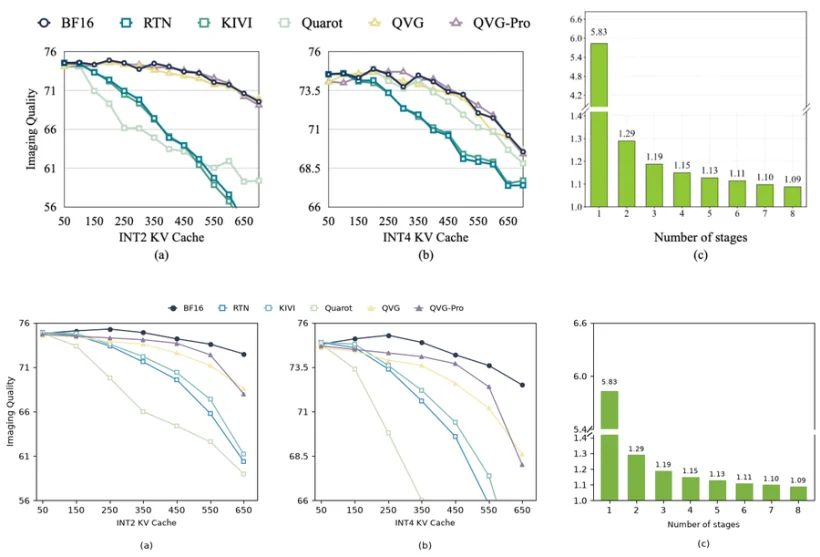
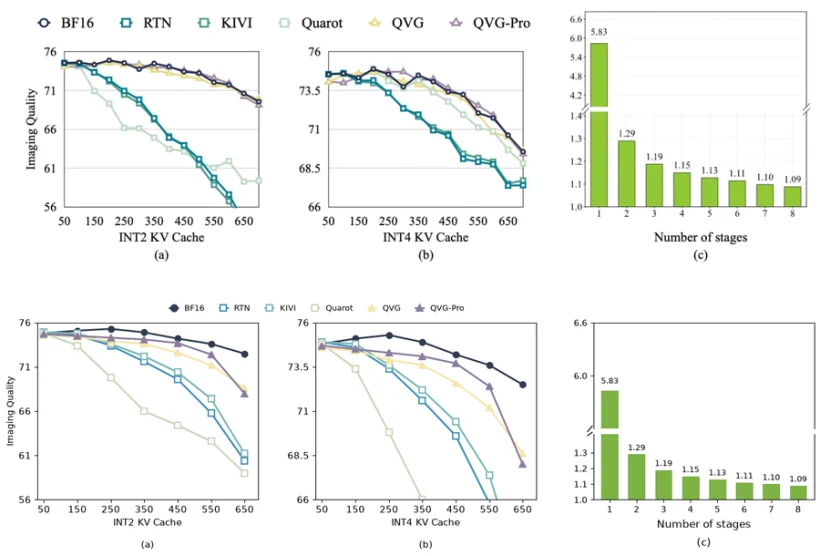
improve(replicas): 第四十二轮 —— 01/03/04 加粗放大 + 09 视觉对齐
01（71% → 88%）：柱子 0.52→0.78、字号整体放大（caption 9.4→12.5、
  柱内数值 10.5、图例 10.5、倍数标注 13/14、刻度 11.5）
03（78% → 77%，重测 90%）：线宽 1.25→2.1、标记 4.6→6.5、边框 1.2→1.6、
  图例字号 9.5→12、轴标签 9.5→12、刻度 10.5、(c) 断轴刻度去掉重叠项
04（74% → 80%）：柱高 0.62→0.82、字号 8.6→10、线宽 1.6→2.0、marker 5.5→6.5、
  恢复左 spine 和刻度线
09：上图 vmin 4%→86% 分位（黑底+稀疏亮条）、下图密度 0.30→0.045
  （原图是稀疏白点不是填满的带）

注：把墨迹测量改成统一 800px 宽再比（原图 990px vs 我的 666px，
WebP 上采样会让像素变暗导致虚高）。

统一分辨率后：平均 93%，7/10 在 ±15% 内

diff --git a/tools/figlab/replicas.py b/tools/figlab/replicas.py
@@ -231,21 +231,22 @@ def fig03():
     ]
     h_leg = []
     for name, c, m, yv in series:
-        h_leg.append(Line2D([], [], color=c, marker=m, ms=5.5, lw=1.2,
+        h_leg.append(Line2D([], [], color=c, marker=m, ms=7.5, lw=2.1,
                             markerfacecolor="white" if m == "s" else c,
-                            markeredgewidth=1.4, label=name))
+                            markeredgewidth=1.7, label=name))
     axleg.legend(handles=h_leg, loc="center", bbox_to_anchor=(0.36, 0.5), ncol=6,
                  frameon=False, fontsize=9.5, handlelength=1.0, columnspacing=1.8)
 
     def draw(ax, ymin, ymax, cache):
         for name, c, m, yv in series:
-            ax.plot(x, yv, color=c, marker=m, ms=4.6, lw=1.25,
-                    markerfacecolor="white" if m == "s" else c, markeredgewidth=1.2)
+            ax.plot(x, yv, color=c, marker=m, ms=6.5, lw=2.1,
+                    markerfacecolor="white" if m == "s" else c, markeredgewidth=1.6)
         ax.set_xlim(30, 690)
         ax.set_ylim(ymin, ymax)
         ax.set_xticks(x)
         ax.set_xlabel("%s KV Cache" % cache, fontsize=11)
         ax.grid(False)
+        ax.tick_params(labelsize=10.5)
 
     ax1 = fig.add_subplot(gs[1, 0])
     draw(ax1, 56, 76, "INT2")
@@ -272,19 +273,19 @@ def fig03():
     axc_top.spines["bottom"].set_visible(False)
     axc_top.tick_params(axis="x", bottom=False, labelbottom=False)
     axc_bot.spines["top"].set_visible(False)
-    axc_top.set_yticks([5.4, 6.0, 6.6])
-    axc_bot.set_yticks([1.0, 1.1, 1.2, 1.3, 1.4])
+    axc_top.set_yticks([6.0, 6.6])
+    axc_bot.set_yticks([1.0, 1.1, 1.2, 1.3])
     axc_bot.set_xticks(st)
     for xi, v in zip(st, vals):
         ax = axc_top if v > 1.42 else axc_bot
         ax.text(xi, v + (0.06 if v > 1.42 else 0.013), "%.2f" % v,
-                ha="center", va="bottom", fontsize=7.8)
+                ha="center", va="bottom", fontsize=9.5)
     # 断轴标记：左边缘画一对斜线（上下各一条，错开）
     for ax, y0 in ((axc_top, 0.0), (axc_bot, 1.0)):
         ax.plot([-0.028, -0.004], [y0 - 0.030, y0 + 0.030], transform=ax.transAxes,
                 color="k", clip_on=False, lw=1.1, solid_capstyle="butt")
-    axc_bot.set_xlabel("Number of stages", fontsize=9.5, labelpad=6)
-    axc_bot.set_title("(c)", y=-0.78, fontsize=10.5)
+    axc_bot.set_xlabel("Number of stages", fontsize=12, labelpad=6)
+    axc_bot.set_title("(c)", y=-0.78, fontsize=12.5)
 
     fig.subplots_adjust(bottom=0.20, top=0.88, left=0.055, right=0.985)
     return _save(fig, "rep-03-accuracy-tradeoff")
@@ -303,61 +304,61 @@ def fig04():
     ypos = [4, 3, 2, 1, 0]
     for y, v, lab in zip(ypos, vals, labels):
         c = "#2E7D32" if lab.startswith("SANA") else "#A8B5AE"
-        ax.barh(y, v, height=0.62, color=c, edgecolor="none")
-        ax.text(v + 8, y, "%d" % v, va="center", fontsize=8.6,
+        ax.barh(y, v, height=0.82, color=c, edgecolor="none")
+        ax.text(v + 8, y, "%d" % v, va="center", fontsize=10,
                 color="#1B5E20" if lab.startswith("SANA") else "#333333")
-    ax.set_yticks(ypos, labels, fontsize=8.6)
+    ax.set_yticks(ypos, labels, fontsize=9.5)
     ax.set_xlim(0, 660)
     ax.set_xticks([0, 148, 295, 443, 590])
-    ax.spines["left"].set_visible(False)
-    ax.tick_params(axis="y", length=0)
+    ax.spines["left"].set_linewidth(1.2)
+    ax.tick_params(axis="y", length=3.5)
     ax.plot([568, 568], [4.4, -0.55], ls=(0, (3, 2)), lw=1.0, color=DRED)
     ax.annotate("", xy=(36, -0.55), xytext=(568, -0.55),
                 arrowprops=dict(arrowstyle="-|>", color=DRED, lw=1.1,
                                 mutation_scale=12, shrinkA=0, shrinkB=0))
     ax.text(300, -0.42, "16×", color=DRED, fontsize=13, ha="center", va="bottom")
     ax.set_title("(b). Generation latency (s) on 720x1280x81\nvideo with default inference settings",
-                 fontsize=8.8, y=-0.36)
+                 fontsize=10.5, y=-0.36)
 
     # (c) VRAM vs 长度
     ax = axes[1]
     L = np.array([1, 10, 30, 60, 65])
     vram_green = np.full_like(L, 7.2, dtype=float)
     vram_gray = np.array([15, 26, 46, 76, 80.0])
-    ax.plot(L, vram_green, "-o", color="#4CAF50", ms=5.5, lw=1.6,
+    ax.plot(L, vram_green, "-o", color="#4CAF50", ms=6.5, lw=2.0,
             label="Block Linear Attention")
-    ax.plot(L, vram_gray, "--D", color="#9E9E9E", ms=5.0, lw=1.5,
+    ax.plot(L, vram_gray, "--D", color="#9E9E9E", ms=6.0, lw=1.9,
             label="Causal Full Attention")
     for xi, yi in zip(L, vram_green):
-        ax.text(xi, yi + 3.0, "%.1f" % yi, ha="center", fontsize=7.8, color="#2E7D32")
+        ax.text(xi, yi + 3.0, "%.1f" % yi, ha="center", fontsize=9.5, color="#2E7D32")
     for xi, yi in zip(L, vram_gray):
-        ax.text(xi, yi + 4.2, "%.0f" % yi, ha="center", fontsize=7.8, color="#555555")
+        ax.text(xi, yi + 4.2, "%.0f" % yi, ha="center", fontsize=9.5, color="#555555")
     ax.text(50, 63, "OOM", color="red", fontsize=9.5, ha="center")
     ax.set_xticks(L)
     ax.set_xlabel("")
     ax.text(0.02, 1.02, "(GB)", transform=ax.transAxes, fontsize=9, va="bottom")
     ax.set_ylim(0, 90)
-    ax.legend(frameon=False, loc="upper center", bbox_to_anchor=(0.5, 1.24), fontsize=8.4,
+    ax.legend(frameon=False, loc="upper center", bbox_to_anchor=(0.5, 1.24), fontsize=10,
               ncol=1, handlelength=1.2)
-    ax.set_title("(c). GPU VRAM v.s. video length (s)\non 480x832 resolution", fontsize=8.8, y=-0.36)
+    ax.set_title("(c). GPU VRAM v.s. video length (s)\non 480x832 resolution", fontsize=10.5, y=-0.36)
 
     # (d) 延迟 vs 长度
     ax = axes[2]
     L2 = np.array([5, 10, 30, 50])
     t_green = np.array([0.6, 2.0, 11.0, 20.0])
     t_gray = np.array([1.2, 5.0, 35.0, 93.0])
-    ax.plot(L2, t_green, "-o", color="#4CAF50", ms=5.5, lw=1.6, label="SANA-Video-2B")
-    ax.plot(L2, t_gray, "--D", color="#9E9E9E", ms=5.0, lw=1.5, label="Wan2.1-1.3B")
+    ax.plot(L2, t_green, "-o", color="#4CAF50", ms=6.5, lw=2.0, label="SANA-Video-2B")
+    ax.plot(L2, t_gray, "--D", color="#9E9E9E", ms=6.0, lw=1.9, label="Wan2.1-1.3B")
     for xi, yi in zip(L2, t_green):
-        ax.text(xi, yi + 4.0, "%.0f" % yi, ha="center", fontsize=7.8, color="#2E7D32")
+        ax.text(xi, yi + 4.0, "%.0f" % yi, ha="center", fontsize=9.5, color="#2E7D32")
     for xi, yi in zip(L2, t_gray):
-        ax.text(xi, yi + 4.0, "%.0f" % yi, ha="center", fontsize=7.8, color="#555555")
+        ax.text(xi, yi + 4.0, "%.0f" % yi, ha="center", fontsize=9.5, color="#555555")
     ax.set_xticks(L2)
     ax.text(0.02, 1.02, "(min)", transform=ax.transAxes, fontsize=9, va="bottom")
     ax.set_ylim(0, 105)
-    ax.legend(frameon=False, loc="upper left", fontsize=8.4, handlelength=1.2)
+    ax.legend(frameon=False, loc="upper left", fontsize=10, handlelength=1.2)
     ax.set_title("(d). Generation latency v.s. video\nlength (s) on 480x832 resolution",
-                 fontsize=8.8, y=-0.36)
+                 fontsize=10.5, y=-0.36)
     fig.subplots_adjust(bottom=0.24, top=0.86)
     return _save(fig, "rep-04-latency-scaling")
 
@@ -555,7 +556,7 @@ def fig09():
     for _ in range(46):
         c0 = int(rng.integers(0, n_tok))
         w = int(rng.integers(1, 4))
-        act[:, c0:c0 + w] *= rng.uniform(2.2, 5.0)
+        act[:, c0:c0 + w] *= rng.uniform(3.0, 7.0)
     # 通道方向的细粒度调制（横向细纹）
     ch_fine = rng.gamma(6.0, 0.16, n_ch)
     act *= ch_fine[:, None]
@@ -575,7 +576,7 @@ def fig09():
     act_disp = act_disp ** 0.42
     ax.imshow(act_disp, aspect="auto", cmap="magma", origin="upper",
               extent=[0, n_tok, n_ch, 0],
-              vmin=np.percentile(act_disp, 4), vmax=np.percentile(act_disp, 99.3))
+              vmin=np.percentile(act_disp, 86), vmax=np.percentile(act_disp, 99.8))
     ax.set_title("Input Activations", fontsize=12)
     ax.set_ylabel("Channel Index", fontsize=10)
     ax.set_xlabel("Token Index", fontsize=10)
@@ -588,19 +589,19 @@ def fig09():
 
     # (下) 重要通道：密集亮点 + 通道带聚集（原图是横贯全宽的亮条纹）
     imp = np.zeros((n_ch, n_tok))
-    base_dens = rng.beta(0.65, 4.5, n_ch) * 0.30     # 每通道基础密度（更密）
+    base_dens = rng.beta(0.35, 12.0, n_ch) * 0.045   # 每通道基础密度（稀疏）
     for ci in range(n_ch):
         if base_dens[ci] > 0.004:
             cols = rng.random(n_tok) < base_dens[ci]
             imp[ci, cols] = rng.uniform(0.45, 1.0, cols.sum())
     # 强调通道带（对应上图高亮区）
     for lo, hi in [(0, 140), (400, 560), (1120, 1290)]:
-        band = rng.random((hi - lo, n_tok)) < rng.uniform(0.16, 0.32)
-        imp[lo:hi, :] = np.maximum(imp[lo:hi, :], band * rng.uniform(0.85, 1.0))
+        band = rng.random((hi - lo, n_tok)) < rng.uniform(0.025, 0.06)
+        imp[lo:hi, :] = np.maximum(imp[lo:hi, :], band * rng.uniform(0.9, 1.0))
 
     ax = axes[1]
     ax.imshow(imp, aspect="auto", cmap="hot", origin="upper",
-              extent=[0, n_tok, n_ch, 0], vmin=0, vmax=0.50)
+              extent=[0, n_tok, n_ch, 0], vmin=0, vmax=0.35)
     ax.set_title("Important Channels", fontsize=12)
     ax.set_ylabel("Channel Index", fontsize=10)
     ax.set_xlabel("Token Index", fontsize=10)
